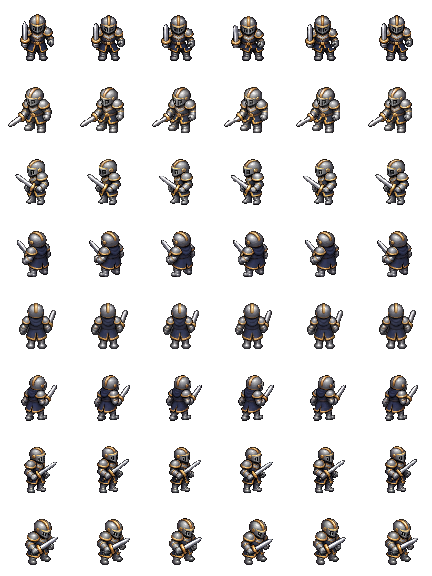
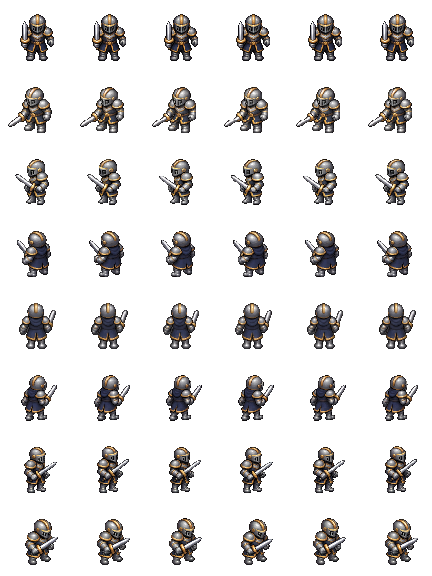
Keep south-facing idle as a coherent whole-body pose (0.54.4)

diff --git a/src/knight-final.js b/src/knight-final.js
@@ -1,7 +1,7 @@
-import {knightProductionEnabled,loadKnightProductionSheets,KNIGHT_PRODUCTION_SCALE} from './knight-production.js?v=0.54.3';
-import {knightPose,KNIGHT_CLIPS} from './knight-animation.js?v=0.54.3';
+import {knightProductionEnabled,loadKnightProductionSheets,KNIGHT_PRODUCTION_SCALE} from './knight-production.js?v=0.54.4';
+import {knightPose,KNIGHT_CLIPS} from './knight-animation.js?v=0.54.4';
 import {rigFacing} from './articulated-hero.js?v=0.40.0';
-import {knightPreviewActionFrame,knightPreviewPresentationFrame} from './knight-preview-motion.js?v=0.54.3';
+import {knightPreviewActionFrame,knightPreviewPresentationFrame} from './knight-preview-motion.js?v=0.54.4';
 import {KNIGHT_REBORN_FRAME_COUNTS,createKnightRebornSheets} from './knight-reborn.js?v=0.49.0';
 import {loadKnightNorthReviewSheets,KNIGHT_NORTH_051} from './knight-north-051.js?v=0.53.1';
 import {loadKnightSideReviewSheets,KNIGHT_SIDE_053} from './knight-side-053.js?v=0.53.1';

diff --git a/index.html b/index.html
@@ -11,7 +11,7 @@
 <body>
  <canvas id="gameCanvas" aria-label="Realm Runners Spielfeld"></canvas>
  <div class="game-top">
-  <div class="identity"><span class="sigil">✦</span><span>REALM <b>RUNNERS</b><small>DUNGEON REBORN · ALPHA 0.54.3</small></span></div>
+  <div class="identity"><span class="sigil">✦</span><span>REALM <b>RUNNERS</b><small>DUNGEON REBORN · ALPHA 0.54.4</small></span></div>
   <div id="hud" class="hud hidden" aria-live="off">
    <div class="hud-stat hp-stat"><span class="stat-label">LEBEN</span><span id="hpText">100 / 100</span><div class="hp-track"><div id="hpFill"></div></div></div>
    <div class="hud-stat"><span class="stat-label">DUNGEON</span><strong id="roomText">0 / 9</strong></div>
@@ -41,6 +41,6 @@
   </div>
  </section>
  <div id="toast" class="toast hidden" role="status"></div>
- <script type="module" src="./src/main.js?v=0.54.3"></script>
+ <script type="module" src="./src/main.js?v=0.54.4"></script>
 </body>
 </html>

diff --git a/src/game.js b/src/game.js
@@ -1,9 +1,9 @@
-import {knightStrikePlanted,knightProductionImpact} from './knight-production.js?v=0.54.3';
+import {knightStrikePlanted,knightProductionImpact} from './knight-production.js?v=0.54.4';
 import {beginCompanionAttack,advanceCompanion,companionShot} from './companion-animation.js?v=0.31.0';
 import {advanceLocomotion} from './locomotion.js?v=0.53.1';
 import {heroShot,HERO_PROJECTILE_HEIGHT} from './hero-aim.js?v=0.40.0';
 import {HERO_KINDS,beginHeroAction,advanceHeroAction} from './hero-animation.js?v=0.31.0';
-import {beginKnightAction,advanceKnightAction} from './knight-animation.js?v=0.54.3';
+import {beginKnightAction,advanceKnightAction} from './knight-animation.js?v=0.54.4';
 import {knightBladeTip} from './knight-reborn.js?v=0.49.0';
 import {knightNorth051Impact} from './knight-north-051.js?v=0.53.1';
 import {knightSide053Impact} from './knight-side-053.js?v=0.53.1';

diff --git a/src/animation-lab.js b/src/animation-lab.js
@@ -1,9 +1,9 @@
-import {getKnightFinal,knightFinalFrame} from './knight-final.js?v=0.54.3';
+import {getKnightFinal,knightFinalFrame} from './knight-final.js?v=0.54.4';
 import {heroRigReady,articulatedPose,RIG_ROWS,getHeroRig} from './articulated-hero.js?v=0.40.0';
 import {HeroSpriteAtlas} from './hero-sprites.js?v=0.40.0';
-import {KnightSpriteAtlas} from './knight-sprites.js?v=0.54.3';
+import {KnightSpriteAtlas} from './knight-sprites.js?v=0.54.4';
 import {heroPose,HERO_CLIPS} from './hero-animation.js?v=0.31.0';
-import {knightPose,KNIGHT_CLIPS} from './knight-animation.js?v=0.54.3';
+import {knightPose,KNIGHT_CLIPS} from './knight-animation.js?v=0.54.4';
 import {heroShot} from './hero-aim.js?v=0.40.0';
 import {KNIGHT_VISUAL_STRIDE} from './knight-walk.js?v=0.46.0';
 import {CLASSES} from './data.js?v=0.23.0';

diff --git a/src/main.js b/src/main.js
@@ -1,10 +1,10 @@
-import {openAnimationLab,animationLabOpen} from './animation-lab.js?v=0.54.3';
+import {openAnimationLab,animationLabOpen} from './animation-lab.js?v=0.54.4';
 import {CLASSES} from './data.js?v=0.23.0';
 import {loadProgress,upgradeCost} from './progression.js?v=0.21.0';
 import {ENEMY_NAMES,totalKills,formatPlayTime} from './statistics.js?v=0.21.0';
 import {Input} from './input.js?v=0.23.0';
-import {Game} from './game.js?v=0.54.3';
-import {Renderer} from './render.js?v=0.54.3';
+import {Game} from './game.js?v=0.54.4';
+import {Renderer} from './render.js?v=0.54.4';
 import {TALENTS,RARITIES,describeStats,talentCost} from './loot.js?v=0.21.0';
 import {ITEM_SETS,RUN_POWERS,setPieces} from './buildcraft.js?v=0.21.0';
 import {installTouchGuard} from './touch-guard.js';

diff --git a/src/render.js b/src/render.js
@@ -1,7 +1,7 @@
 import {CompanionSpriteAtlas,drawCompanionEffect,drawCompanionProjectile} from './companion-sprites.js?v=0.31.0';
 import {HeroSpriteAtlas,drawHeroRelease} from './hero-sprites.js?v=0.40.0';
-import {KNIGHT_PRODUCTION_SCALE} from './knight-production.js?v=0.54.3';
-import {KnightSpriteAtlas,drawKnightEffect} from './knight-sprites.js?v=0.54.3';
+import {KNIGHT_PRODUCTION_SCALE} from './knight-production.js?v=0.54.4';
+import {KnightSpriteAtlas,drawKnightEffect} from './knight-sprites.js?v=0.54.4';
 import {CLASSES,ENEMY_DATA,TILE,clamp} from './data.js?v=0.23.0';
 import {ROOM_W,ROOM_H,ROOM_COLS,ROOM_ROWS} from './dungeon.js?v=0.26.0';
 import {drawDungeonAtmosphere,drawBossWarnings,drawVignette} from './atmosphere.js?v=0.26.0';

diff --git a/src/knight-sprites.js b/src/knight-sprites.js
@@ -1,9 +1,9 @@
-import {getKnightFinal} from './knight-final.js?v=0.54.3';
+import {getKnightFinal} from './knight-final.js?v=0.54.4';
 import {getHeroRig,previewHeroRig} from './articulated-hero.js?v=0.40.0';
 import {drawKnightAction,KNIGHT_ACTION_CLIPS} from './knight-action-sprites.js?v=0.39.0';
 import {drawKnightWalk} from './knight-walk.js?v=0.46.0';
 import {prepareWalkPivots,walkFrameAnchorY} from './grounded-walk.js?v=0.36.0';
-import {knightPose} from './knight-animation.js?v=0.54.3';
+import {knightPose} from './knight-animation.js?v=0.54.4';
 
 // The production knight uses complete-body transparent sprite sheets. Its
 // sword and legs are part of every frame; legacy art remains rollback-only.

diff --git a/tests/knight-production.test.js b/tests/knight-production.test.js
@@ -187,3 +187,12 @@ test('production shadow touches the sole anchor and follows the smaller scale',a
  Renderer.prototype.player.call(renderer,p,0);
  assert.equal(legacyCalls,1,'historical renderer retains its own ground anchor');
 });
+
+test('south idle keeps the complete standing body together without a drifting torso seam',async()=>{
+ const source=await loadImage(await readFile(new URL('source-S.png',folder)));
+ const sheet=await loadImage(await readFile(new URL('idle.png',folder)));
+ const wholeBody=pixels(source,0,0);
+ for(let frame=0;frame<KNIGHT_PRODUCTION_COUNTS.idle;frame++){
+  assert.deepEqual(pixels(sheet,frame,0),wholeBody,'south idle mixes incompatible body halves at '+frame);
+ }
+});

diff --git a/src/knight-production.js b/src/knight-production.js
@@ -1,5 +1,5 @@
 // One coherent illustrated set for the released knight, in all eight facings.
-export const KNIGHT_PRODUCTION_VERSION='0.54.3';
+export const KNIGHT_PRODUCTION_VERSION='0.54.4';
 export const KNIGHT_PRODUCTION_SCALE=.8;
 export const KNIGHT_PRODUCTION_COUNTS=Object.freeze({
  idle:6,walk:8,attack1:8,attack2:8,attack3:10,recovery:6,
